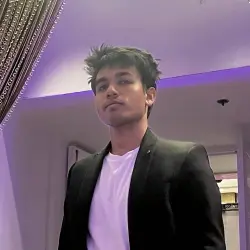
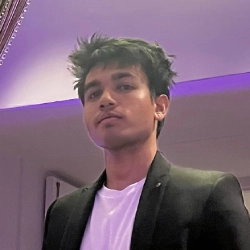
chore: update team photos and quotes

diff --git a/src/config/teamMembers.ts b/src/config/teamMembers.ts
@@ -116,6 +116,29 @@ export const teamMembers: TeamMember[] = [
     quote: "uwu",
   },
   {
+    firstName: "Hamza",
+    lastName: "Khan",
+    team: "Tech",
+    tag: "Full-Stack Developer",
+    image: "/teamAvatars/hamza.webp",
+    pronouns: "he/him",
+    links: [
+      "https://www.hamzak.dev/",
+      "https://www.linkedin.com/in/hamza-khan-bbba03217/",
+    ],
+    quote: "I code sometimes",
+  },
+  {
+    firstName: "Aaron",
+    lastName: "Ye",
+    // image: "/teamAvatars/aaronye.webp",
+    team: "Tech",
+    tag: "Tech Member",
+    pronouns: "he/him",
+    links: ["https://www.linkedin.com/in/aaron-ye-7574872a0/"],
+    quote: "aHR0cHM6Ly93d3cueW91dHViZS5jb20vd2F0Y2g/dj11SGd0OGdpdzFMWQ==",
+  },
+  {
     firstName: "Fiona",
     lastName: "Cai",
     image: "/teamAvatars/fiona.webp",
@@ -137,7 +160,7 @@ export const teamMembers: TeamMember[] = [
   {
     firstName: "Wahib",
     lastName: "Barqawi",
-    image: "/teamAvatars/wahib-barqawi.webp",
+    image: "/teamAvatars/wahib.webp",
     team: "Tech",
     tag: "Tech Member",
     pronouns: "he/him",
@@ -203,7 +226,7 @@ export const teamMembers: TeamMember[] = [
   {
     firstName: "Nirek",
     lastName: "Shetty",
-    // image: "/teamAvatars/nirek.webp",
+    image: "/teamAvatars/nirek.webp",
     team: "Outreach",
     tag: "Outreach Lead",
     pronouns: "he/him",
@@ -296,7 +319,7 @@ export const teamMembers: TeamMember[] = [
     team: "Logistics",
     tag: "Logistics Lead",
     links: ["https://yangxue.ca"],
-    quote: "Placeholder quote",
+    quote: "hiya 🍬",
   },
   {
     firstName: "Arnnav",
@@ -304,7 +327,7 @@ export const teamMembers: TeamMember[] = [
     team: "Logistics",
     tag: "Logistics Member",
     links: [],
-    quote: "Placeholder quote",
+    quote: "before you get hacking, remember to be ready for some smacking",
   },
   {
     firstName: "Edward",
@@ -312,7 +335,7 @@ export const teamMembers: TeamMember[] = [
     team: "Logistics",
     tag: "Logistics Executive",
     links: ["https://www.linkedin.com/in/edward-drobnis"],
-    quote: "Placeholder quote",
+    quote: "Chirag is a goat 🐐",
   },
 
   // Marketing team
@@ -332,7 +355,7 @@ export const teamMembers: TeamMember[] = [
     team: "Marketing",
     tag: "Marketing Lead",
     links: ["https://www.evelynw.ong"],
-    quote: "Placeholder quote",
+    quote: "i make super bad memes 🔥",
   },
   {
     firstName: "Naman",
@@ -340,7 +363,7 @@ export const teamMembers: TeamMember[] = [
     team: "Marketing",
     tag: "Marketing Member",
     links: ["https://namansonawane.vercel.app/"],
-    quote: "Placeholder quote",
+    quote: "competitive figma 1v1 no plugins",
   },
   {
     firstName: "Anushka",
@@ -349,7 +372,8 @@ export const teamMembers: TeamMember[] = [
     team: "Marketing",
     tag: "Marketing Member",
     links: ["https://www.linkedin.com/in/anushka-kshirsagar211/"],
-    quote: "Placeholder quote",
+    quote:
+      "Cheers, from attending 20 hackathons; Now being part of organizing one-idk how bro😮 ",
   },
   {
     firstName: "Claire",
